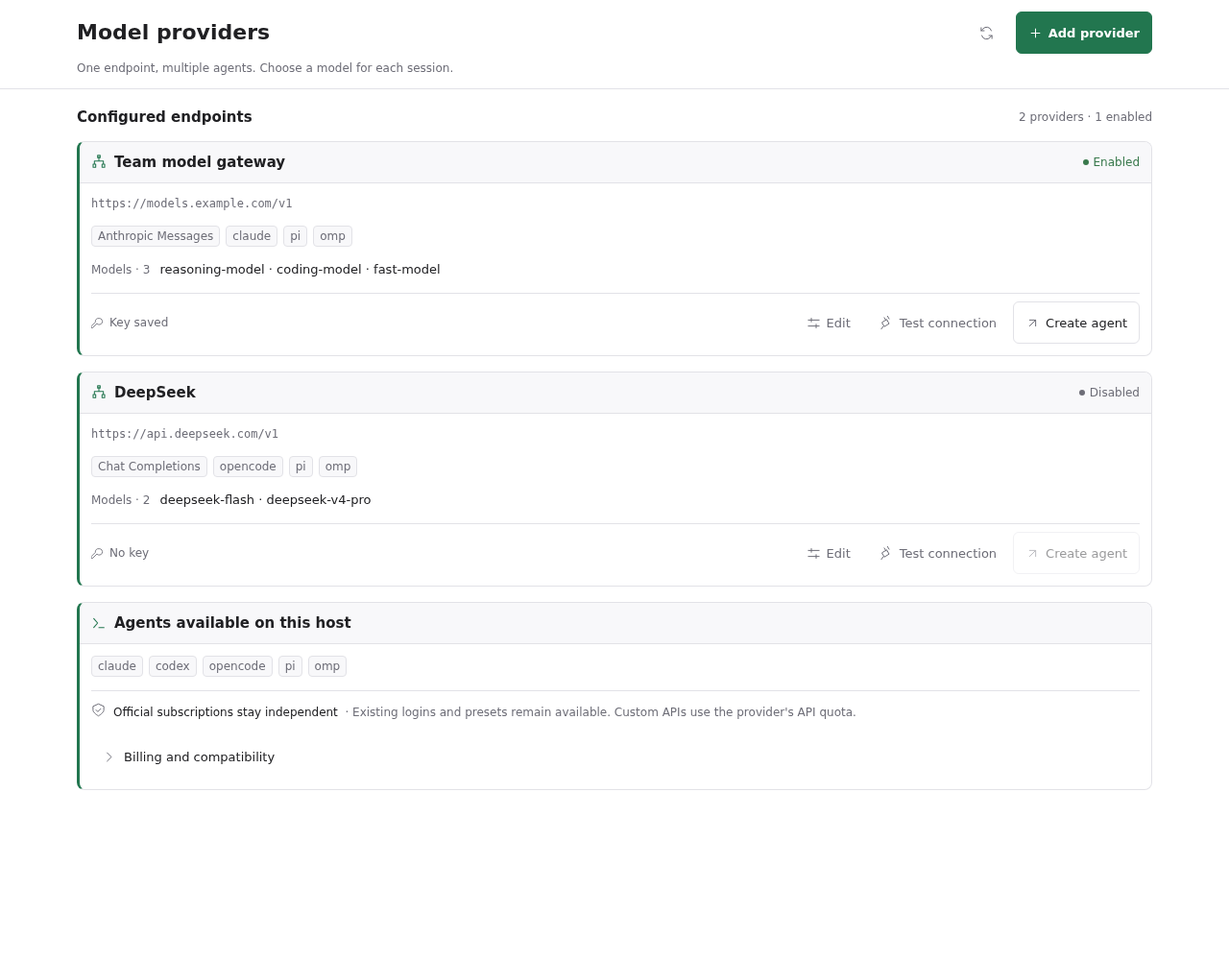
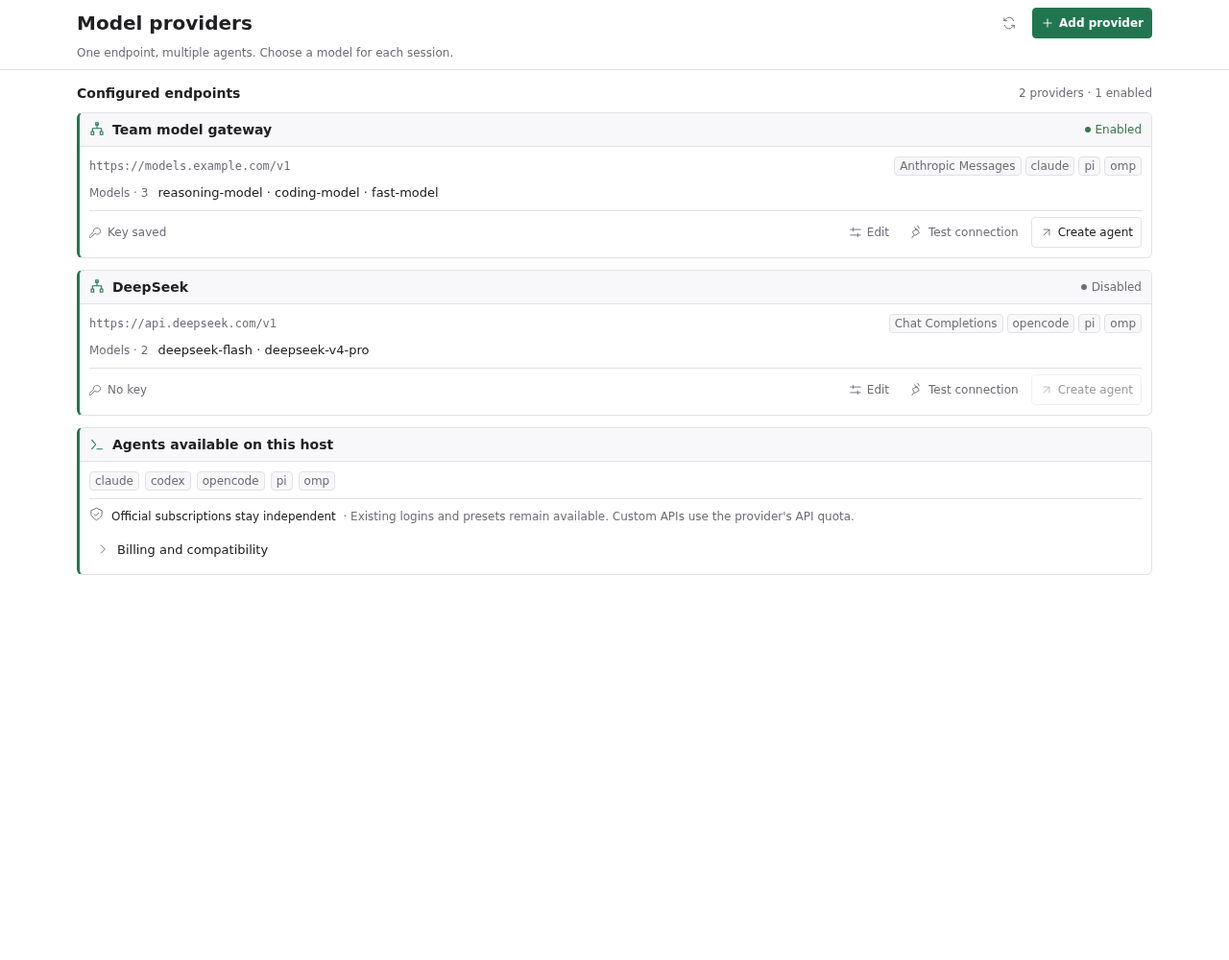
style: unify compact controls and increase layout density

diff --git a/client/providers.tsx b/client/providers.tsx
@@ -7,7 +7,7 @@ import { SettingsSelect, SettingsSwitch } from "@getpaseo/plugin/client/ui";
 import { useQuery } from "@tanstack/react-query";
 import { ModelForm } from "./model-form";
 import { mergeModelRows, supplierModelRows, type ModelRow } from "./model-form-state";
-import { Action, Disclosure, Field, Panel, Tag, mono, sizes } from "./ui";
+import { Action, Disclosure, Field, Panel, Tag, mono, sizes, useControlHeight } from "./ui";
 import { translate } from "./messages";
 import { useSystemLanguage } from "./language";
 import { parseTokenCount } from "./token-limits";
@@ -32,6 +32,7 @@ const fresh: Supplier = { id: "", name: "", protocol: "anthropic", anthropicAuth
 const protocolLabels = { anthropic: "Anthropic Messages", responses: "OpenAI Responses", "chat-completions": "Chat Completions" };
 export function ProvidersScreen({ theme, layout, navigation }: PluginScreenProps) {
   const language = useSystemLanguage();
+  const controlHeight = useControlHeight();
   const t = (message: string) => translate(message, language);
   const paseo = usePaseo();
   const load = useRpc(stateRpc), save = useRpc(saveRpc), probe = useRpc(probeRpc), discover = useRpc(discoverRpc);
@@ -58,7 +59,7 @@ export function ProvidersScreen({ theme, layout, navigation }: PluginScreenProps
   const toast = useToast();
   const color = { color: theme.colors.foreground };
   const muted = { color: theme.colors.foregroundMuted, fontSize: 12 };
-  const rows = { flexDirection: layout.compact ? "column" as const : "row" as const, gap: 12 };
+  const rows = { flexDirection: layout.compact ? "column" as const : "row" as const, gap: 10 };
   const suppliers = state.data?.suppliers ?? [];
   const installed = available.data?.providers.filter(item => item.available) ?? [];
   const selectedModels = modelRows.map(row => row.id.trim());
@@ -136,20 +137,20 @@ export function ProvidersScreen({ theme, layout, navigation }: PluginScreenProps
     finally { setBusy(false); }
   }
   return <View style={{ flex: 1, minWidth: 0, backgroundColor: theme.colors.surface0 }}>
-    <View style={{ paddingHorizontal: layout.compact ? 12 : 20, paddingVertical: 12, borderBottomWidth: 1, borderColor: theme.colors.border }}>
+    <View style={{ paddingHorizontal: layout.compact ? 12 : 16, paddingVertical: 8, borderBottomWidth: 1, borderColor: theme.colors.border }}>
       <View style={{ width: "100%", maxWidth: 1120, alignSelf: "center", gap: 6 }}>
-        <View style={{ flexDirection: layout.compact ? "column" : "row", alignItems: layout.compact ? "stretch" : "center", gap: 8 }}>
-          <Text accessibilityRole="header" style={{ ...color, flex: layout.compact ? undefined : 1, minWidth: 0, fontSize: sizes.title, lineHeight: 30, fontWeight: "700" }}>{t("模型供应商")}</Text>
+        <View style={{ flexDirection: "row", alignItems: "center", gap: 8 }}>
+          <Text accessibilityRole="header" style={{ ...color, flex: 1, minWidth: 0, fontSize: layout.compact ? 18 : sizes.title, lineHeight: 26, fontWeight: "700" }}>{t("模型供应商")}</Text>
           <View style={{ flexDirection: "row", justifyContent: "flex-end", gap: 8 }}>
             {button(t("刷新"), () => { void state.refetch(); void available.refetch(); }, false, false, "RefreshCw", true, true)}
-            {button(t("新增供应商"), () => edit(), !state.data, true, "Plus")}
+            {button(t("新增供应商"), () => edit(), !state.data, true, "Plus", false, layout.compact)}
           </View>
         </View>
         {!layout.compact ? <Text style={{ ...muted, lineHeight: 18 }}>{t("一个接口，多种 Agent。为每个会话选择合适的模型。")}</Text> : null}
       </View>
     </View>
-    <ScrollView style={{ flex: 1 }} contentContainerStyle={{ padding: layout.compact ? 12 : 20, paddingBottom: 32 }}>
-      <View style={{ width: "100%", maxWidth: 1120, alignSelf: "center", gap: 16 }}>
+    <ScrollView style={{ flex: 1 }} contentContainerStyle={{ padding: layout.compact ? 12 : 16, paddingBottom: 24 }}>
+      <View style={{ width: "100%", maxWidth: 1120, alignSelf: "center", gap: 12 }}>
         <View style={{ flexDirection: "row", alignItems: "center", justifyContent: "space-between", flexWrap: "wrap", gap: 8 }}>
           <Text accessibilityRole="header" style={{ ...color, fontSize: sizes.heading, fontWeight: "600" }}>{t("已配置接口")}</Text>
           {state.data ? <Text style={muted}>{suppliers.length} {t("个供应商 ·")} {suppliers.filter(item => item.enabled).length} {t("个启用")}</Text> : null}
@@ -167,23 +168,25 @@ export function ProvidersScreen({ theme, layout, navigation }: PluginScreenProps
             <Text style={{ ...muted, color: item.enabled ? theme.colors.statusSuccess : theme.colors.foregroundMuted }}>{item.enabled ? t("已启用") : t("已停用")}</Text>
           </View>
         }>
-          <Text selectable numberOfLines={2} style={{ ...muted, fontFamily: mono, lineHeight: 18 }}>{item.baseUrl}</Text>
-          <View style={{ flexDirection: "row", flexWrap: "wrap", alignItems: "center", gap: 6 }}>
-            <Tag theme={theme}>{protocolLabels[item.protocol]}</Tag>
-            {item.agents.map(agent => <Tag key={agent} theme={theme}>{agent}</Tag>)}
+          <View style={{ flexDirection: layout.compact ? "column" : "row", alignItems: layout.compact ? "stretch" : "center", gap: 8 }}>
+            <Text selectable numberOfLines={2} style={{ ...muted, fontFamily: mono, lineHeight: 18, flex: layout.compact ? undefined : 1 }}>{item.baseUrl}</Text>
+            <View style={{ flexDirection: "row", flexWrap: "wrap", alignItems: "center", gap: 4 }}>
+              <Tag theme={theme}>{protocolLabels[item.protocol]}</Tag>
+              {item.agents.map(agent => <Tag key={agent} theme={theme}>{agent}</Tag>)}
+            </View>
           </View>
           <View style={{ flexDirection: "row", alignItems: "flex-start", gap: 10 }}>
             <Text style={{ ...muted, lineHeight: 20 }}>{t("模型 ·")} {item.models.length}</Text>
             <Text style={{ ...color, fontSize: sizes.body, lineHeight: 20, flex: 1 }} numberOfLines={2}>{item.models.slice(0, 3).join(" · ")}{item.models.length > 3 ? ` +${item.models.length - 3}` : ""}</Text>
           </View>
-          <View style={{ borderTopWidth: 1, borderColor: theme.colors.border, paddingTop: 8, flexDirection: layout.compact ? "column" : "row", justifyContent: "space-between", alignItems: layout.compact ? "stretch" : "center", gap: 4 }}>
+          <View style={{ borderTopWidth: 1, borderColor: theme.colors.border, paddingTop: 6, flexDirection: layout.compact ? "column" : "row", justifyContent: "space-between", alignItems: layout.compact ? "stretch" : "center", gap: 4 }}>
             <View style={{ flexDirection: "row", alignItems: "center", gap: 6 }}>
               <Icon name={item.hasKey ? "KeyRound" : "Key"} size={13} color={theme.colors.foregroundMuted} />
               <Text style={muted}>{item.hasKey ? t("凭据已保存") : t("无凭据")}</Text>
             </View>
             <View style={{ flexDirection: "row", justifyContent: "flex-end", flexWrap: "wrap", gap: 4 }}>
               {button(t("编辑"), () => edit(item), false, false, "Settings2", true)}
-              {button(t("测试连接"), () => void test(item), false, false, "PlugZap", true)}
+              {button(t("测试连接"), () => void test(item), false, false, "PlugZap", true, layout.compact)}
               {button(t("创建 Agent"), () => { setLaunch(item); setEngine(item.agents[0]); setModel(item.models[0]); setPrompt(""); }, !item.enabled, false, "ArrowUpRight")}
             </View>
           </View>
@@ -195,7 +198,7 @@ export function ProvidersScreen({ theme, layout, navigation }: PluginScreenProps
         <Panel theme={theme} title={t("当前主机可用的 Agent")} icon="Terminal">
           <View style={{ flexDirection: "row", flexWrap: "wrap", gap: 6 }}>{installed.map(item => <Tag key={item.provider} theme={theme}>{item.provider}</Tag>)}</View>
           {available.isPending ? <Text style={muted}>{t("正在检测…")}</Text> : available.isError || available.data?.error ? <Text style={muted}>{t("检测失败，可点击页面顶部刷新重试。")}</Text> : installed.length === 0 ? <Text style={muted}>{t("当前没有检测到可用的 Agent。")}</Text> : null}
-          <View style={{ borderTopWidth: 1, borderColor: theme.colors.border, paddingTop: 12, flexDirection: "row", alignItems: "flex-start", gap: 8 }}>
+          <View style={{ borderTopWidth: 1, borderColor: theme.colors.border, paddingTop: 8, flexDirection: "row", alignItems: "flex-start", gap: 8 }}>
             <Icon name="ShieldCheck" size={15} color={theme.colors.foregroundMuted} />
             <Text style={{ ...muted, flex: 1, lineHeight: 20 }}><Text style={{ ...color, fontWeight: "500" }}>{t("官方订阅独立保留")}</Text> {t("· 原有登录和 Agent 预设继续可用；自定义接口使用对应供应商的 API 额度。")}</Text>
           </View>
@@ -208,20 +211,20 @@ export function ProvidersScreen({ theme, layout, navigation }: PluginScreenProps
     <Modal title={existing ? t("编辑供应商") : t("新增供应商")} open={editing !== null} onOpenChange={open => { if (!open && !busy) closeEditor() }}>
       {editing ? <Modal.Content scrollable={false} style={{ flex: 1, minHeight: 0 }} contentContainerStyle={{ flex: 1, minHeight: 0, padding: 0, gap: 0 }}>
         <EditorDialogWidth compact={layout.compact} />
-        <View style={{ paddingHorizontal: layout.compact ? 12 : 20, paddingVertical: 12, gap: 6 }}>
+        <View style={{ paddingHorizontal: layout.compact ? 12 : 16, paddingVertical: 8, gap: 6 }}>
           <View style={{ flexDirection: layout.compact ? "column" : "row", alignItems: layout.compact ? "flex-start" : "center", gap: 8 }}>
-            <Text style={{ ...color, fontSize: sizes.title, lineHeight: 30, fontWeight: "700", flex: layout.compact ? undefined : 1 }}>{editing.name || t("新增供应商")}</Text>
+            <Text style={{ ...color, fontSize: sizes.title, lineHeight: 26, fontWeight: "700", flex: layout.compact ? undefined : 1 }}>{editing.name || t("新增供应商")}</Text>
             <Tag theme={theme}>{protocolLabels[editing.protocol]}</Tag>
           </View>
           <Text selectable numberOfLines={1} style={{ ...muted, fontFamily: editing.baseUrl ? mono : undefined }}>{editing.baseUrl || t("选择接口协议，填写供应商提供的基础地址与凭据。")}</Text>
         </View>
         <View accessibilityRole="tablist" style={{ borderBottomWidth: 1, borderColor: theme.colors.border }}>
-          <ScrollView horizontal showsHorizontalScrollIndicator={false} style={{ flexGrow: 0, flexShrink: 0 }} contentContainerStyle={{ paddingHorizontal: layout.compact ? 12 : 20, gap: 4 }}>
+          <ScrollView horizontal showsHorizontalScrollIndicator={false} style={{ flexGrow: 0, flexShrink: 0 }} contentContainerStyle={{ paddingHorizontal: layout.compact ? 12 : 16, gap: 2 }}>
             {([["connection", "连接设置", "Settings2"], ["models", "模型与路由", "List"], ["agents", "Agent 设置", "Terminal"]] as const).map(([id, label, icon]) =>
               <Action key={id} theme={theme} label={t(label)} icon={icon} selected={editorTab === id} disabled={busy} onPress={() => selectEditorTab(id)} />)}
           </ScrollView>
         </View>
-        <ModalScrollView ref={editorScroll} style={{ flex: 1, minHeight: 0 }} contentContainerStyle={{ padding: layout.compact ? 12 : 20, gap: 16 }} keyboardShouldPersistTaps="handled">
+        <ModalScrollView ref={editorScroll} style={{ flex: 1, minHeight: 0 }} contentContainerStyle={{ padding: layout.compact ? 12 : 16, gap: 12 }} keyboardShouldPersistTaps="handled">
           <View style={{ display: editorTab === "connection" ? "flex" : "none" }}>
             <Panel theme={theme} icon="Settings2" title={t("连接设置")} description={t("选择接口协议，填写供应商提供的基础地址与凭据。")}>
               {!existing ? <SettingsSelect label={t("供应商预设")} hint={t("选择预设会填写连接信息、模型和容量，并清空已输入的密钥。")} value={preset} disabled={busy} options={[{ value: "custom", label: t("自定义") }, ...Object.entries(supplierPresets).map(([value, item]) => ({ value, label: item.name }))]} onValueChange={applyPreset} /> : null}
@@ -247,8 +250,8 @@ export function ProvidersScreen({ theme, layout, navigation }: PluginScreenProps
               <View style={{ flexDirection: "row", flexWrap: "wrap", gap: 8 }}>
                 {engines.map(agent => <Pressable key={agent} accessibilityRole="checkbox" aria-checked={editing.agents.includes(agent)} accessibilityLabel={agent} accessibilityState={{ checked: editing.agents.includes(agent), disabled: !compatible(editing.protocol, agent) }} disabled={!compatible(editing.protocol, agent)}
                   onPress={() => setEditing({ ...editing, agents: editing.agents.includes(agent) ? editing.agents.filter(item => item !== agent) : [...editing.agents, agent] })}
-                  style={{ minHeight: 44, paddingHorizontal: 12, borderWidth: 1, borderColor: editing.agents.includes(agent) ? theme.colors.accent : theme.colors.border, borderRadius: 8, flexDirection: "row", alignItems: "center", gap: 8, opacity: compatible(editing.protocol, agent) ? 1 : 0.4 }}>
-                  <Icon name={editing.agents.includes(agent) ? "SquareCheck" : "Square"} size={16} color={editing.agents.includes(agent) ? theme.colors.accent : theme.colors.foregroundMuted} /><Text style={{ ...color, fontSize: sizes.body }}>{agent}</Text>
+                  style={{ minHeight: controlHeight, paddingHorizontal: 8, borderWidth: 1, borderColor: editing.agents.includes(agent) ? theme.colors.accent : theme.colors.border, borderRadius: sizes.controlRadius, flexDirection: "row", alignItems: "center", gap: 6, opacity: compatible(editing.protocol, agent) ? 1 : 0.4 }}>
+                  <Icon name={editing.agents.includes(agent) ? "SquareCheck" : "Square"} size={14} color={editing.agents.includes(agent) ? theme.colors.accent : theme.colors.foregroundMuted} /><Text style={{ ...color, fontSize: sizes.caption }}>{agent}</Text>
                 </Pressable>)}
               </View>
               <Text style={{ ...muted, lineHeight: 20 }}>{t("Codex 需要 OpenAI Responses 协议；Claude 需要 Anthropic Messages 协议。灰色选项表示与当前协议不兼容。")}</Text>
@@ -256,7 +259,7 @@ export function ProvidersScreen({ theme, layout, navigation }: PluginScreenProps
             </Panel>
           </View>
         </ModalScrollView>
-        <View style={{ paddingHorizontal: layout.compact ? 12 : 20, paddingVertical: 12, flexShrink: 0, borderTopWidth: 1, borderColor: theme.colors.border, backgroundColor: theme.colors.surface0, flexDirection: "row", flexWrap: "wrap", alignItems: "center", justifyContent: "space-between", gap: 12 }}>
+        <View style={{ paddingHorizontal: layout.compact ? 12 : 16, paddingVertical: 8, flexShrink: 0, borderTopWidth: 1, borderColor: theme.colors.border, backgroundColor: theme.colors.surface0, flexDirection: "row", flexWrap: "wrap", alignItems: "center", justifyContent: "space-between", gap: 12 }}>
           {!layout.compact ? <Text style={{ ...muted, flex: 1, lineHeight: 18 }}>{t("新建或重新打开会话时生效")}</Text> : null}
           <View style={{ flexDirection: "row", justifyContent: "flex-end", flexGrow: 1, gap: 8 }}>
             {button(t("取消"), closeEditor, false, false, undefined, true)}
@@ -266,7 +269,7 @@ export function ProvidersScreen({ theme, layout, navigation }: PluginScreenProps
       </Modal.Content> : null}
     </Modal>
     <Modal title={t("创建 Agent")} open={launch !== null} onOpenChange={open => { if (!open && !busy) setLaunch(null); }}>
-      {launch ? <Modal.Content contentContainerStyle={{ padding: layout.compact ? 12 : 20, gap: 16 }}>
+      {launch ? <Modal.Content contentContainerStyle={{ padding: layout.compact ? 12 : 16, gap: 12 }}>
         <Panel theme={theme} title={launch.name} icon="Network" right={<Tag theme={theme}>{protocolLabels[launch.protocol]}</Tag>}>
           <Text selectable numberOfLines={2} style={{ ...muted, fontFamily: mono }}>{launch.baseUrl}</Text>
         </Panel>

diff --git a/client/ui.tsx b/client/ui.tsx
@@ -1,54 +1,60 @@
 import { useState, type ReactNode } from "react";
-import { Platform, Pressable, Text, View, type TextInputProps } from "react-native";
+import { Platform, Pressable, Text, View, useWindowDimensions, type TextInputProps } from "react-native";
 import { Icon, TextInput } from "@getpaseo/plugin/client/react-native";
 import type { PluginScreenProps } from "@getpaseo/plugin/client";
 
 type Theme = PluginScreenProps["theme"];
-export const sizes = { title: 22, heading: 15, section: 15, body: 13, caption: 12, radius: 8, controlRadius: 6, gap: 16 };
+export const sizes = { title: 20, heading: 14, section: 14, body: 13, caption: 12, radius: 6, controlRadius: 4, gap: 12, control: 32, touchControl: 44 };
 export const mono = Platform.OS === "ios" ? "Menlo" : "monospace";
+export function useControlHeight() {
+  const { width } = useWindowDimensions();
+  return Platform.OS === "web" && width >= 700 ? sizes.control : sizes.touchControl;
+}
 export function Action({ theme, label, onPress, disabled, primary, quiet, icon, iconOnly, selected }: {
   theme: Theme; label: string; onPress: () => void; disabled?: boolean; primary?: boolean; quiet?: boolean; icon?: string; iconOnly?: boolean; selected?: boolean;
 }) {
   const [focused, setFocused] = useState(false);
+  const height = useControlHeight();
   const foreground = primary ? theme.colors.accentForeground : theme.colors.foreground;
   return <Pressable accessibilityRole={selected === undefined ? "button" : "tab"} accessibilityLabel={label} accessibilityState={{ disabled: Boolean(disabled), ...(selected === undefined ? {} : { selected }) }}
     disabled={disabled} onPress={onPress} onFocus={() => setFocused(true)} onBlur={() => setFocused(false)}
-    style={({ pressed }) => ({ minHeight: 44, minWidth: iconOnly ? 44 : undefined, paddingHorizontal: iconOnly ? 10 : 12, paddingVertical: 8, borderRadius: selected === undefined ? sizes.controlRadius : 0,
-      flexDirection: "row", alignItems: "center", justifyContent: "center", gap: 6,
+    style={({ pressed }) => ({ minHeight: height, minWidth: iconOnly ? height : undefined, paddingHorizontal: iconOnly ? 6 : 8, paddingVertical: 4, borderRadius: selected === undefined ? sizes.controlRadius : 0,
+      flexDirection: "row", alignItems: "center", justifyContent: "center", gap: 5,
       borderWidth: 1, borderBottomWidth: selected === undefined ? 1 : 2,
       borderColor: focused || primary ? theme.colors.accent : quiet || selected !== undefined ? "transparent" : theme.colors.border,
       borderBottomColor: focused || primary || selected ? theme.colors.accent : quiet || selected !== undefined ? "transparent" : theme.colors.border,
       backgroundColor: primary ? theme.colors.accent : pressed ? theme.colors.surface2 : "transparent",
       opacity: disabled ? 0.45 : 1 })}>
-    {icon ? <Icon name={icon} size={15} color={primary ? foreground : theme.colors.foregroundMuted} /> : null}
-    {!iconOnly ? <Text style={{ color: selected === false || quiet ? theme.colors.foregroundMuted : foreground, fontSize: sizes.body, fontWeight: primary || selected ? "600" : "400" }}>{label}</Text> : null}
+    {icon ? <Icon name={icon} size={14} color={primary ? foreground : theme.colors.foregroundMuted} /> : null}
+    {!iconOnly ? <Text style={{ color: selected === false || quiet ? theme.colors.foregroundMuted : foreground, fontSize: sizes.caption, lineHeight: 18, fontWeight: primary || selected ? "600" : "400" }}>{label}</Text> : null}
   </Pressable>;
 }
 export function Tag({ theme, children }: { theme: Theme; children: ReactNode }) {
-  return <View style={{ paddingHorizontal: 6, paddingVertical: 3, borderRadius: 4, backgroundColor: theme.colors.surface1, borderWidth: 1, borderColor: theme.colors.border }}>
+  return <View style={{ paddingHorizontal: 5, paddingVertical: 2, borderRadius: 4, backgroundColor: theme.colors.surface1, borderWidth: 1, borderColor: theme.colors.border }}>
     <Text style={{ color: theme.colors.foregroundMuted, fontSize: sizes.caption }}>{children}</Text>
   </View>;
 }
 export function Field({ theme, label, hint, hideLabel, ...input }: TextInputProps & { theme: Theme; label: string; hint?: string; hideLabel?: boolean }) {
   const [focused, setFocused] = useState(false);
-  return <View style={{ gap: 6, flexGrow: 1, flexShrink: 1, minWidth: 0 }}>
+  const height = useControlHeight();
+  return <View style={{ gap: 4, flexGrow: 1, flexShrink: 1, minWidth: 0 }}>
     {!hideLabel ? <Text style={{ color: theme.colors.foreground, fontSize: sizes.body, fontWeight: "500" }}>{label}</Text> : null}
     <TextInput {...input} accessibilityLabel={input.accessibilityLabel ?? label} placeholderTextColor={theme.colors.foregroundMuted}
       onFocus={() => setFocused(true)} onBlur={() => setFocused(false)}
-      style={{ color: theme.colors.foreground, backgroundColor: theme.colors.surface0, padding: 10,
-        minHeight: input.multiline ? 88 : 44, borderWidth: 1, borderColor: focused ? theme.colors.accent : theme.colors.border,
+      style={{ color: theme.colors.foreground, backgroundColor: theme.colors.surface0, paddingHorizontal: 8, paddingVertical: 5,
+        minHeight: input.multiline ? 72 : height, borderWidth: 1, borderColor: focused ? theme.colors.accent : theme.colors.border,
         borderRadius: sizes.controlRadius, fontSize: sizes.body, textAlignVertical: input.multiline ? "top" : "center" }} />
     {hint ? <Text style={{ color: theme.colors.foregroundMuted, fontSize: sizes.caption, lineHeight: 18 }}>{hint}</Text> : null}
   </View>;
 }
 export function Panel({ theme, icon, title, description, right, children }: { theme: Theme; icon: string; title: string; description?: string; right?: ReactNode; children: ReactNode }) {
   return <View style={{ borderWidth: 1, borderLeftWidth: 3, borderColor: theme.colors.border, borderLeftColor: theme.colors.accent, borderRadius: sizes.radius, overflow: "hidden", backgroundColor: theme.colors.surface0 }}>
-    <View style={{ paddingHorizontal: 12, paddingVertical: 10, flexDirection: "row", alignItems: "center", gap: 8, backgroundColor: theme.colors.surface1, borderBottomWidth: 1, borderColor: theme.colors.border }}>
+    <View style={{ paddingHorizontal: 10, paddingVertical: 7, flexDirection: "row", alignItems: "center", gap: 8, backgroundColor: theme.colors.surface1, borderBottomWidth: 1, borderColor: theme.colors.border }}>
       <Icon name={icon} size={16} color={theme.colors.accent} />
-      <Text accessibilityRole="header" style={{ color: theme.colors.foreground, fontSize: sizes.heading, fontWeight: "600", lineHeight: 22, flex: 1 }}>{title}</Text>
+      <Text accessibilityRole="header" style={{ color: theme.colors.foreground, fontSize: sizes.heading, fontWeight: "600", lineHeight: 20, flex: 1 }}>{title}</Text>
       {right}
     </View>
-    <View style={{ padding: 12, gap: 14 }}>
+    <View style={{ padding: 10, gap: 8 }}>
       {description ? <Text style={{ color: theme.colors.foregroundMuted, fontSize: sizes.caption, lineHeight: 18 }}>{description}</Text> : null}
       {children}
     </View>
@@ -57,10 +63,11 @@ export function Panel({ theme, icon, title, description, right, children }: { th
 
 export function Disclosure({ theme, label, detail, expanded, onPress }: { theme: Theme; label: string; detail?: string; expanded: boolean; onPress: () => void }) {
   const [focused, setFocused] = useState(false);
+  const height = useControlHeight();
   return <Pressable accessibilityRole="button" accessibilityLabel={label} accessibilityState={{ expanded }} onPress={onPress} onFocus={() => setFocused(true)} onBlur={() => setFocused(false)}
-    style={({ pressed }) => ({ minHeight: 44, paddingHorizontal: 10, flexDirection: "row", gap: 8, alignItems: "center", borderWidth: 1, borderRadius: sizes.controlRadius,
+    style={({ pressed }) => ({ minHeight: height, paddingHorizontal: 6, flexDirection: "row", gap: 8, alignItems: "center", borderWidth: 1, borderRadius: sizes.controlRadius,
       borderColor: focused ? theme.colors.accent : "transparent", backgroundColor: pressed ? theme.colors.surface2 : "transparent" })}>
-    <Icon name={expanded ? "ChevronDown" : "ChevronRight"} size={15} color={theme.colors.foregroundMuted} />
+    <Icon name={expanded ? "ChevronDown" : "ChevronRight"} size={14} color={theme.colors.foregroundMuted} />
     <Text style={{ flex: 1, color: theme.colors.foreground, fontSize: sizes.body, fontWeight: "500" }}>{label}</Text>
     {detail ? <Text style={{ color: theme.colors.foregroundMuted, fontSize: sizes.caption }}>{detail}</Text> : null}
   </Pressable>;

diff --git a/client/model-form.tsx b/client/model-form.tsx
@@ -17,24 +17,24 @@ export function ModelForm({ t, theme, compact, rows, onChange, message, busy, on
   function update(key: number, field: "id" | "apiId" | "contextWindow" | "maxTokens", value: string) {
     onChange(rows.map(row => row.key === key ? { ...row, [field]: value } : row));
   }
-  return <View style={{ gap: 12 }}>
+  return <View style={{ gap: 8 }}>
     <View style={{ flexDirection: "row", flexWrap: "wrap", justifyContent: "flex-end", gap: 4 }}>
-        <Action theme={theme} label={t("添加模型")} onPress={() => onChange([...rows, newModelRow(rows)])} disabled={busy || rows.length >= maxModelRows} icon="Plus" quiet />
-        <Action theme={theme} label={busy ? t("正在加载…") : t("加载模型")} onPress={onLoad} disabled={busy} icon="Download" />
+      <Action theme={theme} label={t("添加模型")} onPress={() => onChange([...rows, newModelRow(rows)])} disabled={busy || rows.length >= maxModelRows} icon="Plus" quiet />
+      <Action theme={theme} label={busy ? t("正在加载…") : t("加载模型")} onPress={onLoad} disabled={busy} icon="Download" />
     </View>
     <Text style={muted}>{t("容量用于 Pi/OMP，支持 K/M；留空沿用原有默认值。")}</Text>
     {message ? <Text accessibilityRole="alert" style={muted}>{message}</Text> : null}
-    <View style={{ gap: 12 }}>
+    <View style={{ gap: 8 }}>
       {rows.map((row, index) => <View key={row.key} style={{ borderWidth: 1, borderColor: theme.colors.border, borderRadius: sizes.controlRadius, overflow: "hidden" }}>
-        <View style={{ paddingHorizontal: 10, flexDirection: "row", alignItems: "center", gap: 8, backgroundColor: theme.colors.surface1, borderBottomWidth: 1, borderColor: theme.colors.border }}>
+        <View style={{ paddingHorizontal: 8, flexDirection: "row", alignItems: "center", gap: 8, backgroundColor: theme.colors.surface1, borderBottomWidth: 1, borderColor: theme.colors.border }}>
           <Text style={{ ...muted, fontFamily: mono }}>{String(index + 1).padStart(2, "0")}</Text>
           <Text numberOfLines={1} style={{ color: theme.colors.foreground, fontSize: sizes.body, fontWeight: "500", flex: 1 }}>{row.id || t("模型")}</Text>
           <Action theme={theme} label={`${t("移除模型")} ${index + 1}`} onPress={() => onChange(rows.filter(item => item.key !== row.key))} disabled={busy} icon="Trash2" quiet iconOnly />
         </View>
-        <View style={{ padding: 12, flexDirection: compact ? "column" : "row", gap: 12 }}>
+        <View style={{ padding: 8, flexDirection: compact ? "column" : "row", gap: 8 }}>
           <View style={{ flex: compact ? undefined : 2, minWidth: 0 }}><Field theme={theme} label={t("模型 ID")} accessibilityLabel={`${t("模型 ID")} ${index + 1}`} placeholder="deepseek-flash" value={row.id} onChangeText={value => update(row.key, "id", value)} editable={!busy} autoCapitalize="none" autoCorrect={false} /></View>
           <View style={{ flex: compact ? undefined : 2, minWidth: 0 }}><Field theme={theme} label={t("实际请求 ID")} accessibilityLabel={`${t("实际请求 ID")} ${index + 1}`} placeholder={row.id || "gateway/model-id"} value={row.apiId} onChangeText={value => update(row.key, "apiId", value)} editable={!busy} autoCapitalize="none" autoCorrect={false} /></View>
-          <View style={{ flex: compact ? undefined : 2, minWidth: 0, flexDirection: "row", gap: 12 }}>
+          <View style={{ flex: compact ? undefined : 2, minWidth: 0, flexDirection: "row", gap: 8 }}>
             <View style={{ flex: 1, minWidth: 0 }}><Field theme={theme} label={t("上下文窗口")} accessibilityLabel={`${t("上下文窗口")} ${index + 1}`} placeholder={formatTokenCount(defaults.contextWindow)} value={row.contextWindow ?? ""} onChangeText={value => update(row.key, "contextWindow", value)} editable={!busy} autoCapitalize="none" autoCorrect={false} /></View>
             <View style={{ flex: 1, minWidth: 0 }}><Field theme={theme} label={t("最大输出")} accessibilityLabel={`${t("最大输出")} ${index + 1}`} placeholder={formatTokenCount(defaults.maxTokens)} value={row.maxTokens ?? ""} onChangeText={value => update(row.key, "maxTokens", value)} editable={!busy} autoCapitalize="none" autoCorrect={false} /></View>
           </View>
